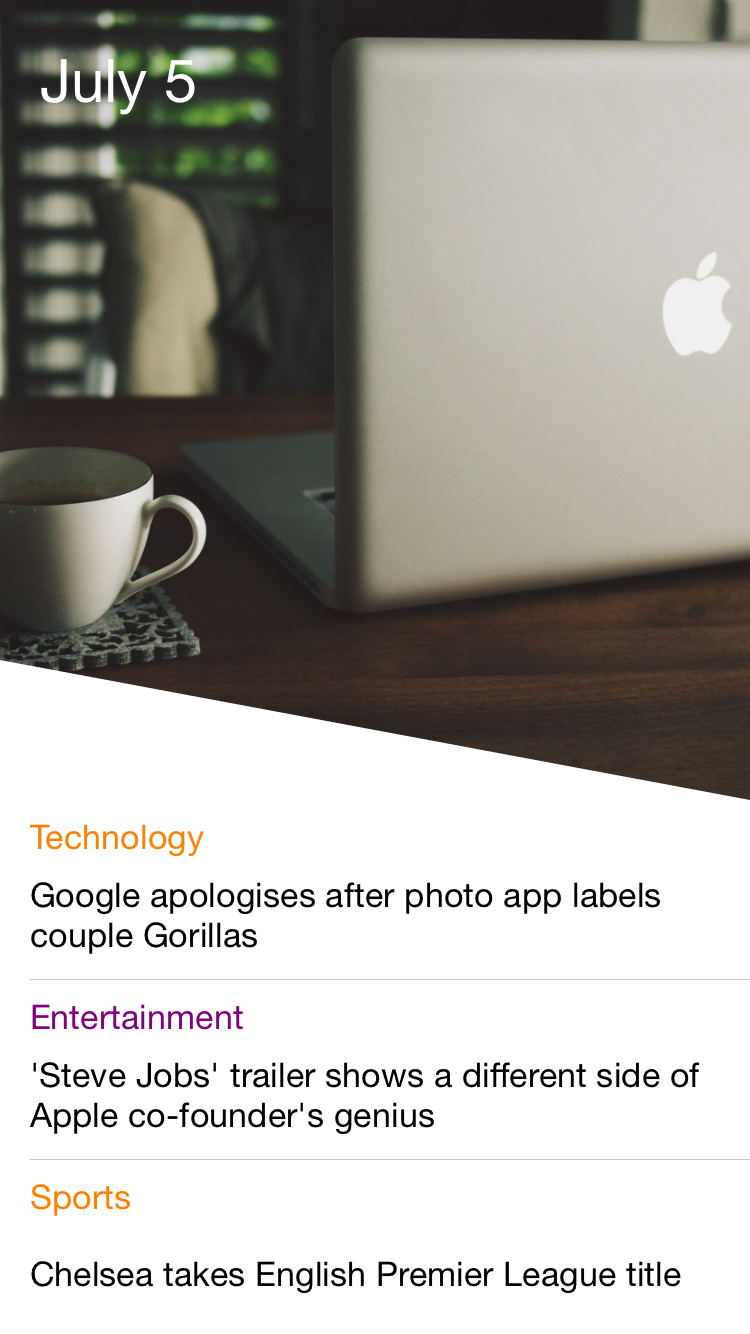
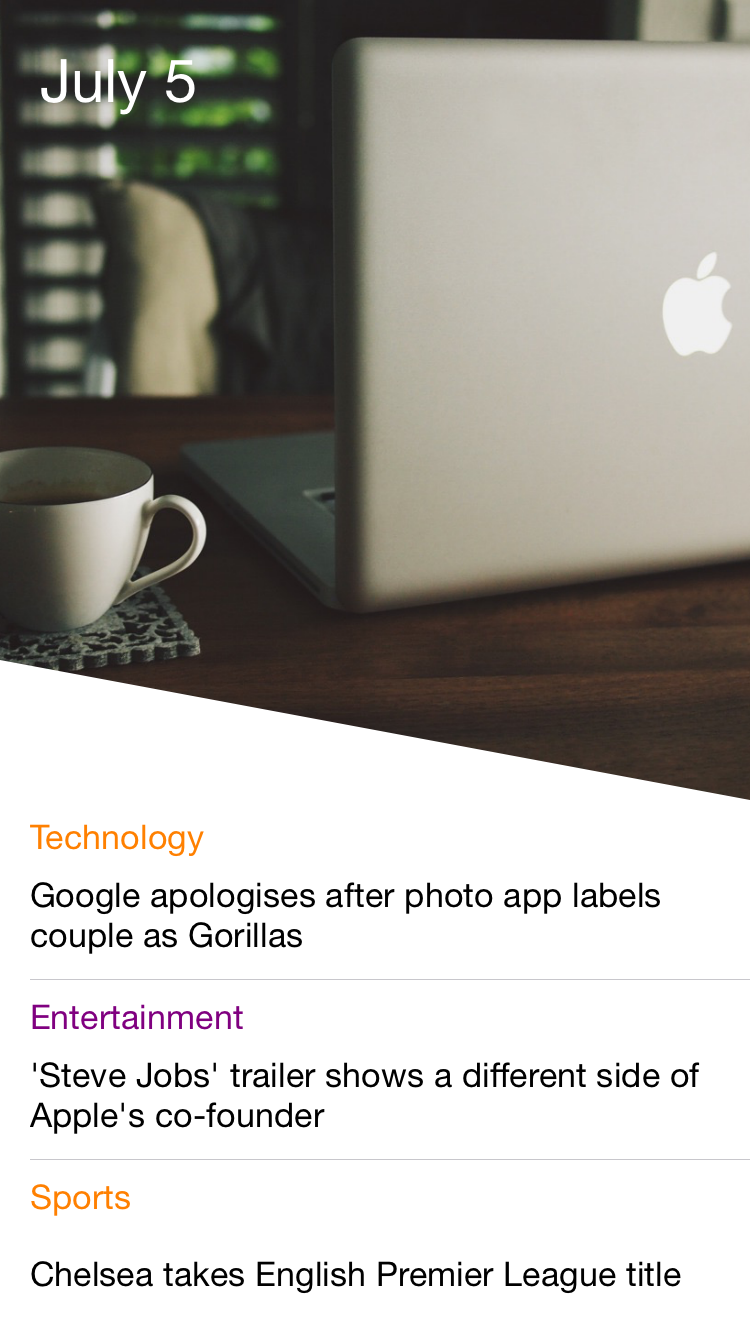
Updating screenshot

Changed region(s): [[0.1533, 0.8298, 0.5827, 0.8606], [0.184, 0.6762, 0.3987, 0.7069]]

diff --git a/Yahoo News Digest Replicate/ViewController.swift b/Yahoo News Digest Replicate/ViewController.swift
@@ -40,8 +40,8 @@ class ViewController: UIViewController, UITableViewDataSource, UITableViewDelega
     
     func creatingSampleNews() {
         
-        let news1 = News(newsTitle: "Google apologises after photo app labels couple Gorillas", newsCategory: "Technology")
-        let news2 = News(newsTitle: "'Steve Jobs' trailer shows a different side of Apple co-founder's genius", newsCategory: "Entertainment")
+        let news1 = News(newsTitle: "Google apologises after photo app labels couple as Gorillas", newsCategory: "Technology")
+        let news2 = News(newsTitle: "'Steve Jobs' trailer shows a different side of Apple's co-founder", newsCategory: "Entertainment")
         let news3 = News(newsTitle: "Chelsea takes English Premier League title", newsCategory: "Sports")
         let news4 = News(newsTitle: "Shares falls as Euro plunges", newsCategory: "Business")
         let news5 = News(newsTitle: "SpaceX failure shows that we need more commercial space travel", newsCategory: "Science")
